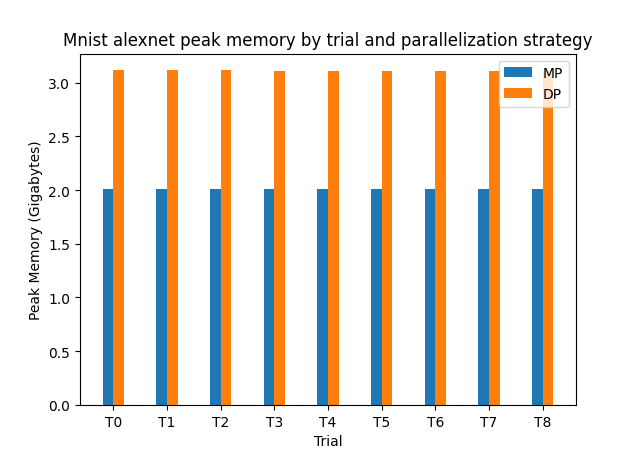
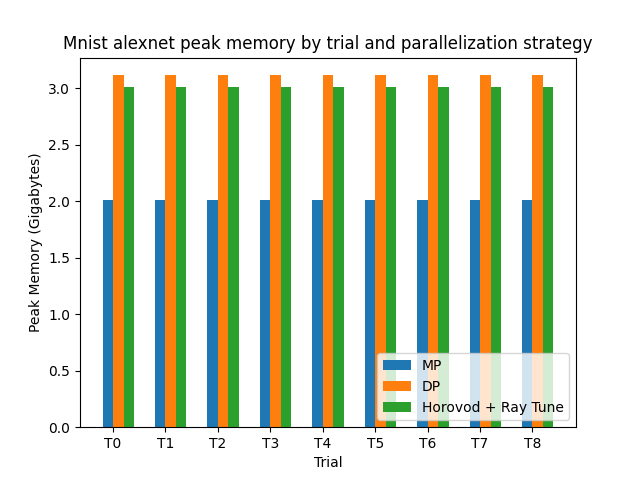
Alexnet graphs done

diff --git a/plot/plotAlexNetMNIST.py b/plot/plotAlexNetMNIST.py
@@ -15,11 +15,11 @@ def plot_trial_results(all_trial_results, num_trials, metric_key, units=None):
 
     y_label = metric_key if units is None else f"{metric_key} ({units})"
     plt.xlabel("Trial")
-    plt.ylabel("Peak Memory (Gigabytes)")
-    plt.title(f"MNIST Alexnet peak memory by trial and parallelization strategy".capitalize())
+    plt.ylabel("Runtime (s)")
+    plt.title(f"MNIST Alexnet runtime by trial and parallelization strategy".capitalize())
 
     plt.xticks(ind + width / 2, (f"T{i}" for i in range(num_trials)))
-    plt.legend(loc='upper right')
+    plt.legend(loc='lower right')
     plt.show()
 
 
@@ -65,6 +65,18 @@ def main():
             {"runtime": 61.56561255082488, "mem_params": 244341408, "mem_bufs": 0, "mem_peak": 3343360512/1073741824},
             {"runtime": 60.24541654996574, "mem_params": 244341408, "mem_bufs": 0, "mem_peak": 3343360512/1073741824}
         ],
+        'Horovod + Ray Tune': [
+            {"runtime":  97.3423 , "mem_peak":  3233902592/1073741824 },
+            {"runtime":  97.266  , "mem_peak":  3233902592/1073741824 },
+            {"runtime":  97.2807 , "mem_peak":  3233902592/1073741824 },
+            {"runtime":  66.3573 , "mem_peak":  3233257472/1073741824 },
+            {"runtime":  65.9218 , "mem_peak":  3233257472/1073741824 },
+            {"runtime":  66.6642 , "mem_peak":  3233257472/1073741824 },
+            {"runtime":  66.0314 , "mem_peak":  3233280000/1073741824 },
+            {"runtime":  68.2389 , "mem_peak":  3233257472/1073741824 },
+            {"runtime":  65.7218 , "mem_peak":  3232670208/1073741824 },
+
+        ]
         # 'GPipe': [
         #     {},
         #     {},
@@ -78,7 +90,7 @@ def main():
         #    ]
 
     }
-    plot_trial_results(all_trial_results, num_trials, 'mem_peak', 's')
+    plot_trial_results(all_trial_results, num_trials, 'runtime', 's')
 
     # Not particularly meaningful
     #plot_trial_results(all_trial_results, num_trials, 'accuracy', '%')
